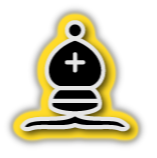
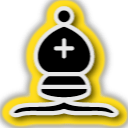
added new border_bishop image and also it appears on figure click

diff --git a/src/main.rs b/src/main.rs
@@ -28,6 +28,7 @@ fn setup(
         black_knight: asset_server.load(BLACK_KNIGHT_SPRITE),
         white_bishop: asset_server.load(WHITE_BISHOP_SPRITE),
         black_bishop: asset_server.load(BLACK_BISHOP_SPRITE),
+        bordered_black_bishop: asset_server.load(BORDERED_BLACK_BISHOP_SPRITE),
         white_rook: asset_server.load(WHITE_ROOK_SPRITE),
         black_rook: asset_server.load(BLACK_ROOK_SPRITE),
         white_queen: asset_server.load(WHITE_QUEEN_SPRITE),
@@ -77,7 +78,11 @@ pub fn input_handling(
                 for (mut image, piece) in query.iter_mut() {
                     let (x, y) = piece.piece_type.get_coordinates();
                     if x == clicked_coords.x && y == clicked_coords.y {
-                        *image = game_textures.white_king.clone();
+                        if *image == game_textures.bordered_black_bishop {
+                            *image = game_textures.black_bishop.clone();
+                        } else {
+                            *image = game_textures.bordered_black_bishop.clone();
+                        }
                     }
                 }
             }

diff --git a/src/lib.rs b/src/lib.rs
@@ -26,6 +26,7 @@ pub const WHITE_KNIGHT_SPRITE: &str = "128px/w_knight_png_shadow_128px.png";
 pub const BLACK_KNIGHT_SPRITE: &str = "128px/b_knight_png_shadow_128px.png";
 pub const WHITE_BISHOP_SPRITE: &str = "128px/w_bishop_png_shadow_128px.png";
 pub const BLACK_BISHOP_SPRITE: &str = "128px/b_bishop_png_shadow_128px.png";
+pub const BORDERED_BLACK_BISHOP_SPRITE: &str = "128px/border-bishop.png";
 pub const WHITE_ROOK_SPRITE: &str = "128px/w_rook_png_shadow_128px.png";
 pub const BLACK_ROOK_SPRITE: &str = "128px/b_rook_png_shadow_128px.png";
 pub const WHITE_QUEEN_SPRITE: &str = "128px/w_queen_png_shadow_128px.png";
@@ -41,6 +42,7 @@ pub struct GameTextures {
     pub black_knight: Handle<Image>,
     pub white_bishop: Handle<Image>,
     pub black_bishop: Handle<Image>,
+    pub bordered_black_bishop: Handle<Image>,
     pub white_rook: Handle<Image>,
     pub black_rook: Handle<Image>,
     pub white_queen: Handle<Image>,
